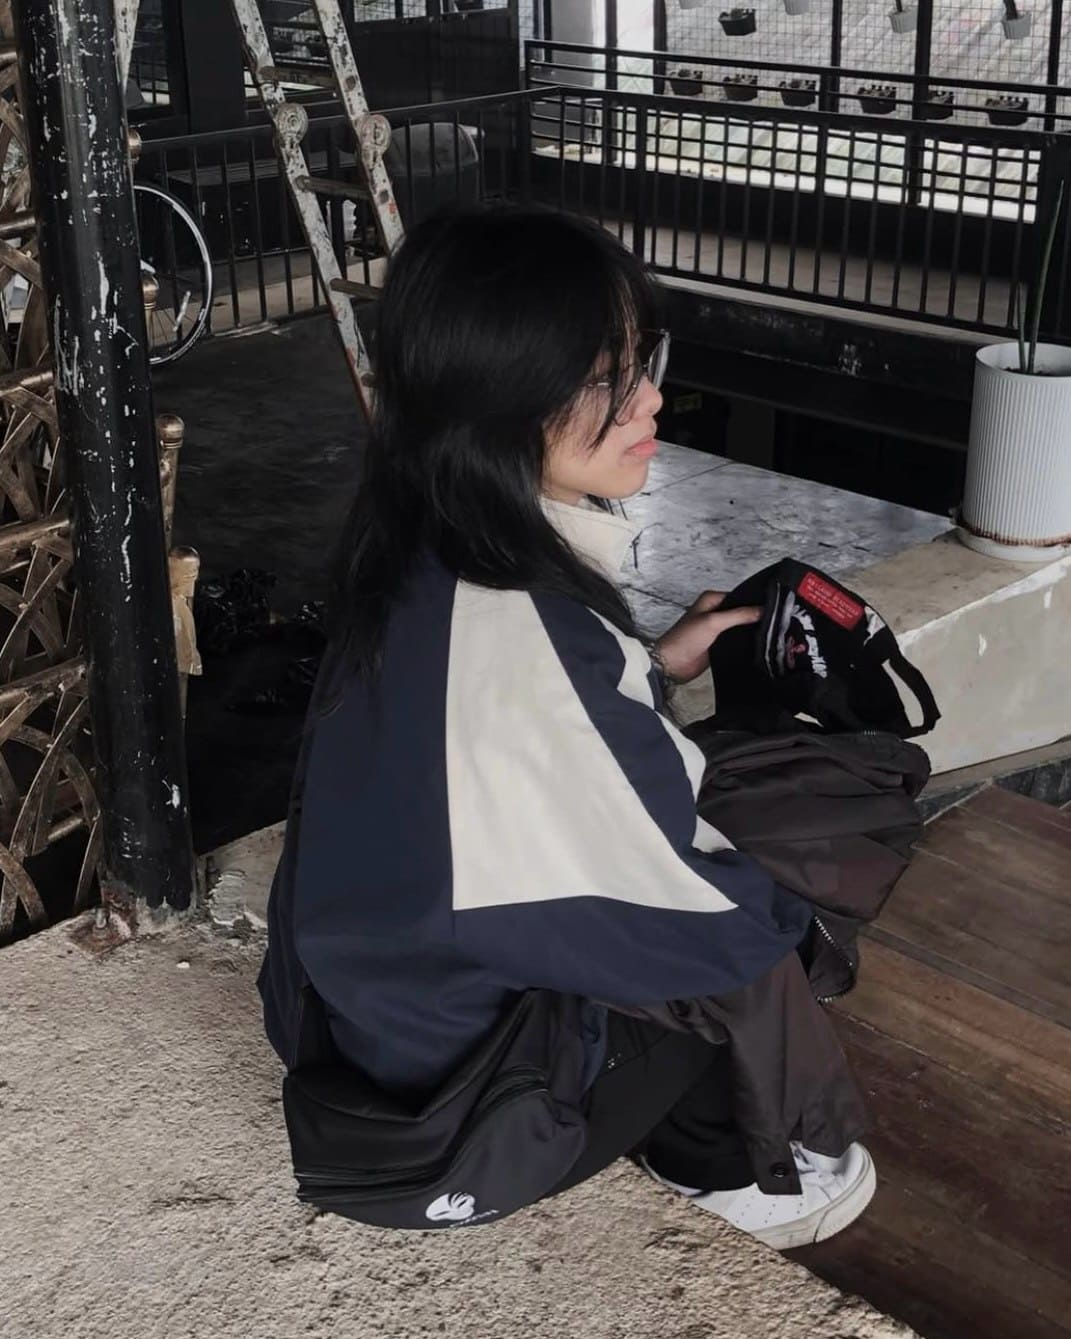
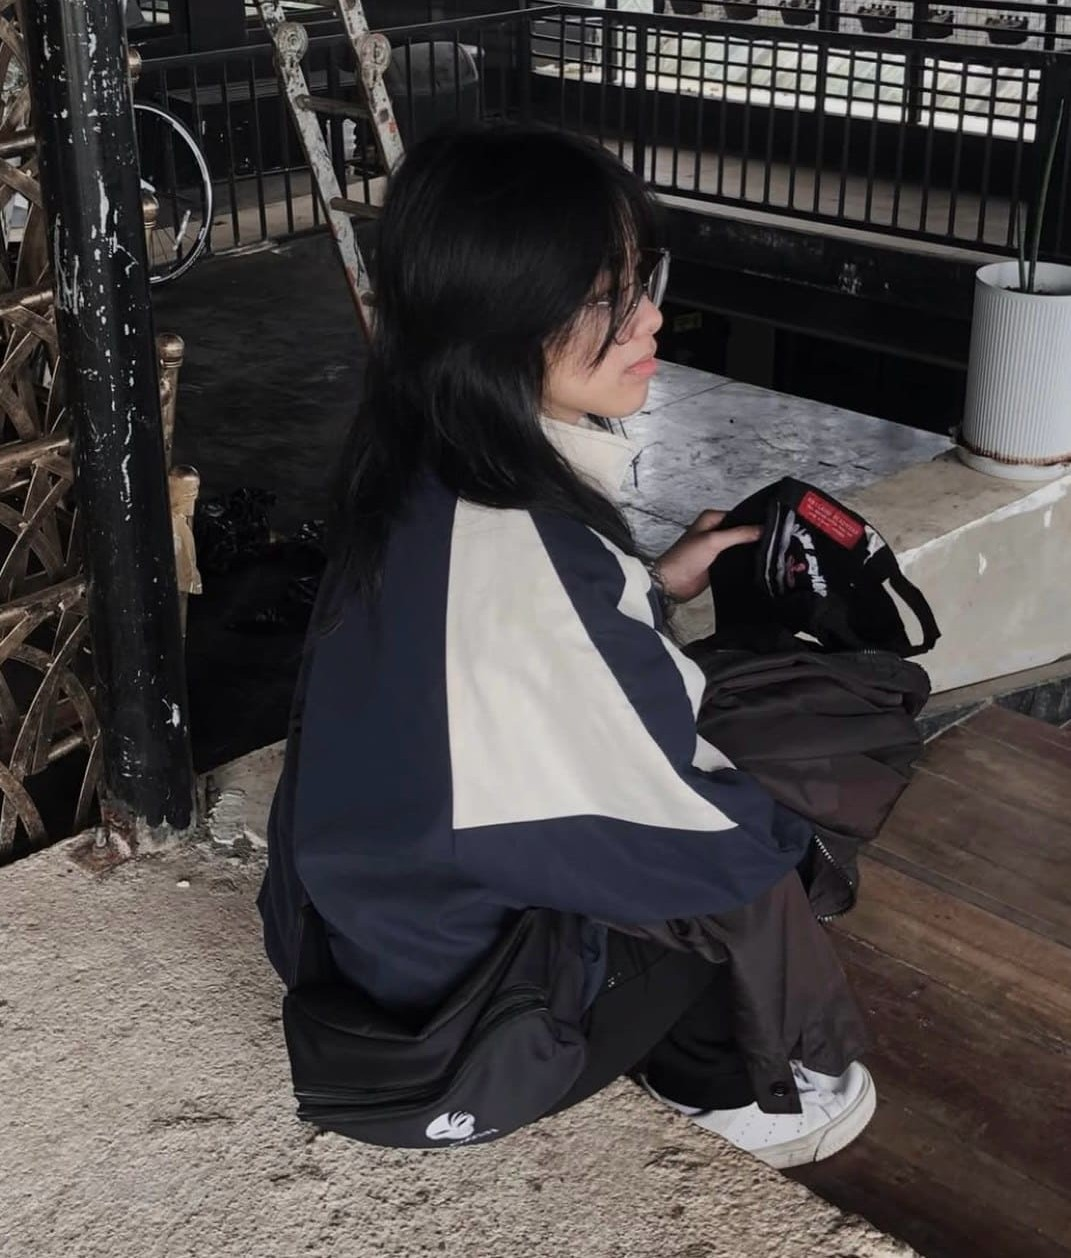
upd1

diff --git a/index.html b/index.html
@@ -121,7 +121,7 @@
           <div class="about-content reveal reveal-delay-1">
             <div class="narrative-text">
               <h3>Rendezvous</h3>
-              <p>I bridge the gap between human needs and technical logic. I’m an IT student and UI/UX designer who
+              <p>I bridge the gap between human needs and technical logic. I am an IT student and UI/UX designer who
                 focuses on understanding users, collaborating with stakeholders, and designing practical, buildable
                 solutions.</p>
               <p>With a background in frontend development and databases, I ensure that my designs are always grounded
@@ -327,8 +327,7 @@
         <div class="section-header reveal reveal-delay-1">
           <h2 id="contact-heading">Let's Connect</h2>
           <div class="header-underline"></div>
-          <p class="section-intro">Curious about design, tech, or building better digital experiences? <br> Let’s
-            connect and create something people love to use.</p>
+          <p class="section-intro">Let’s connect and create something <br> people love to use.</p>
         </div>
 
         <div class="contact-container reveal reveal-delay-2">
